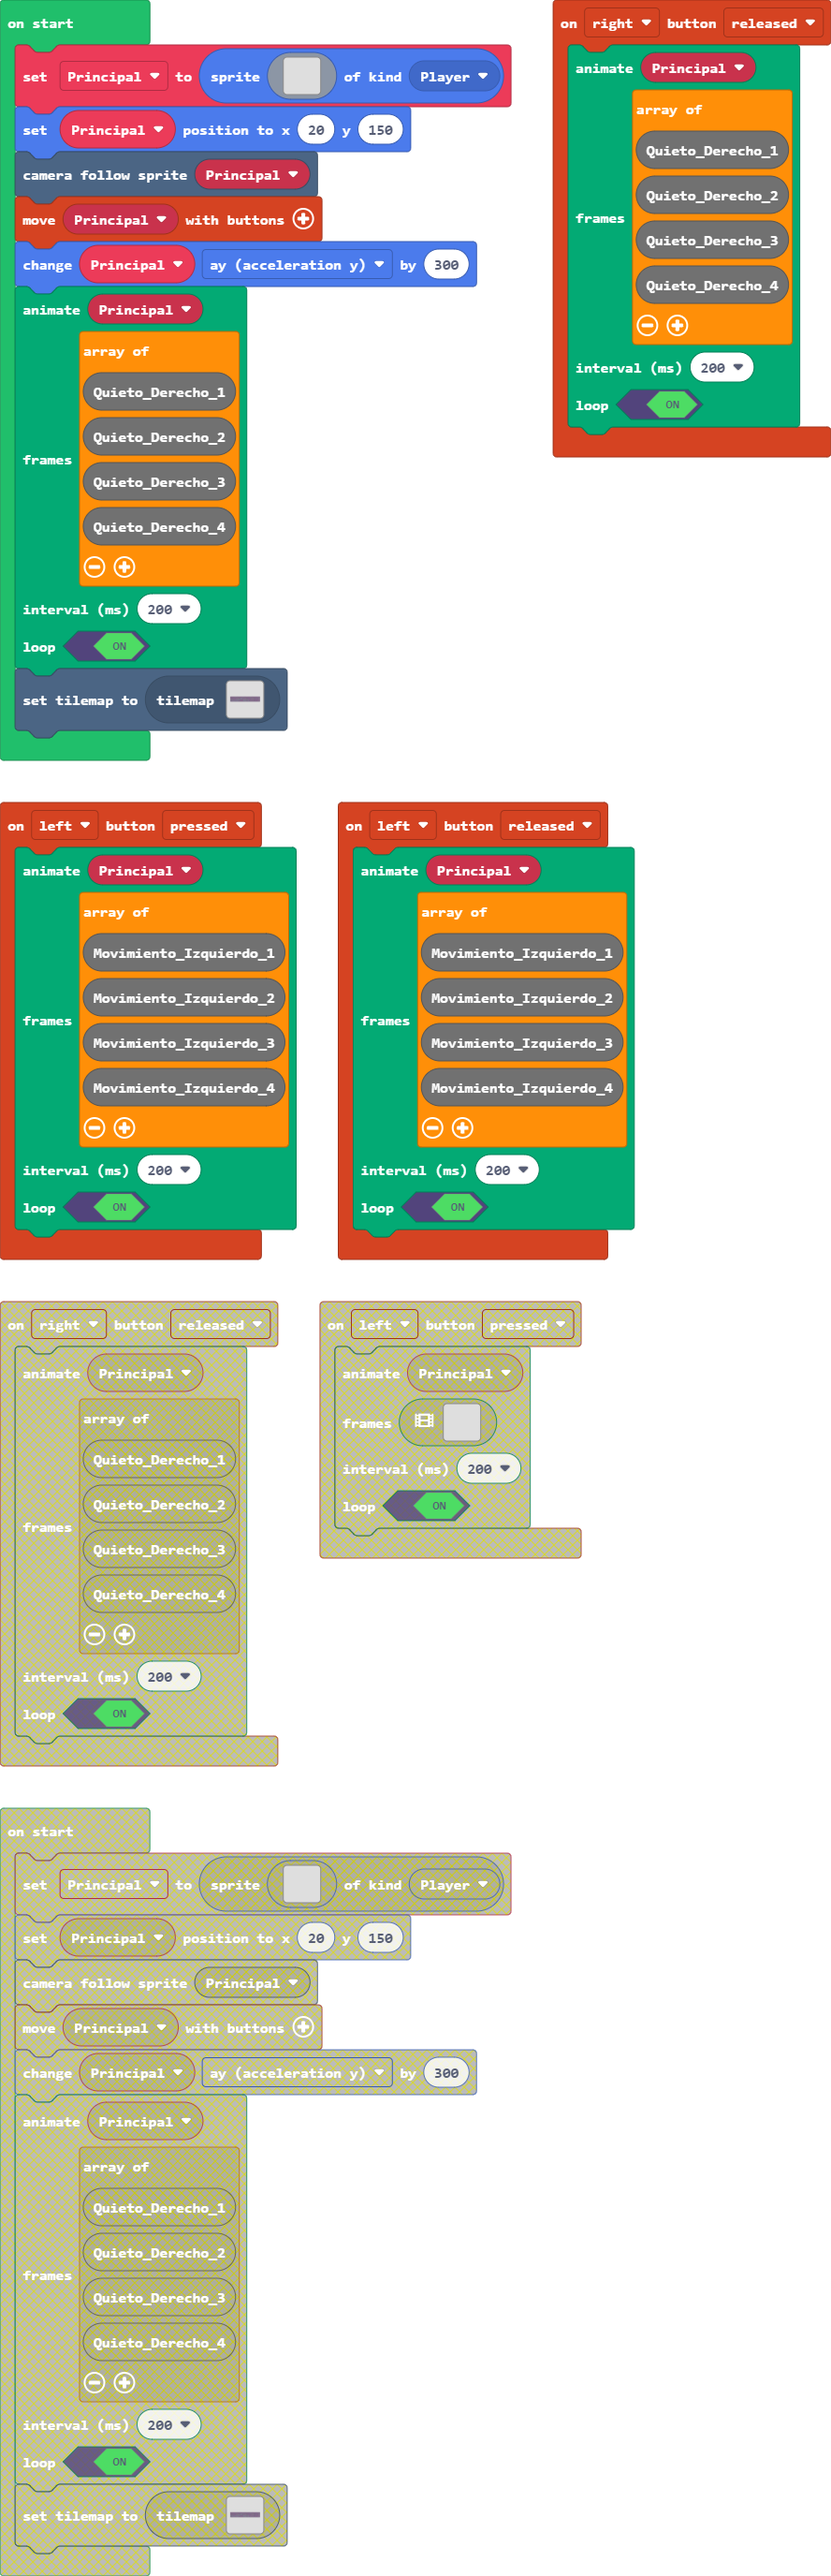
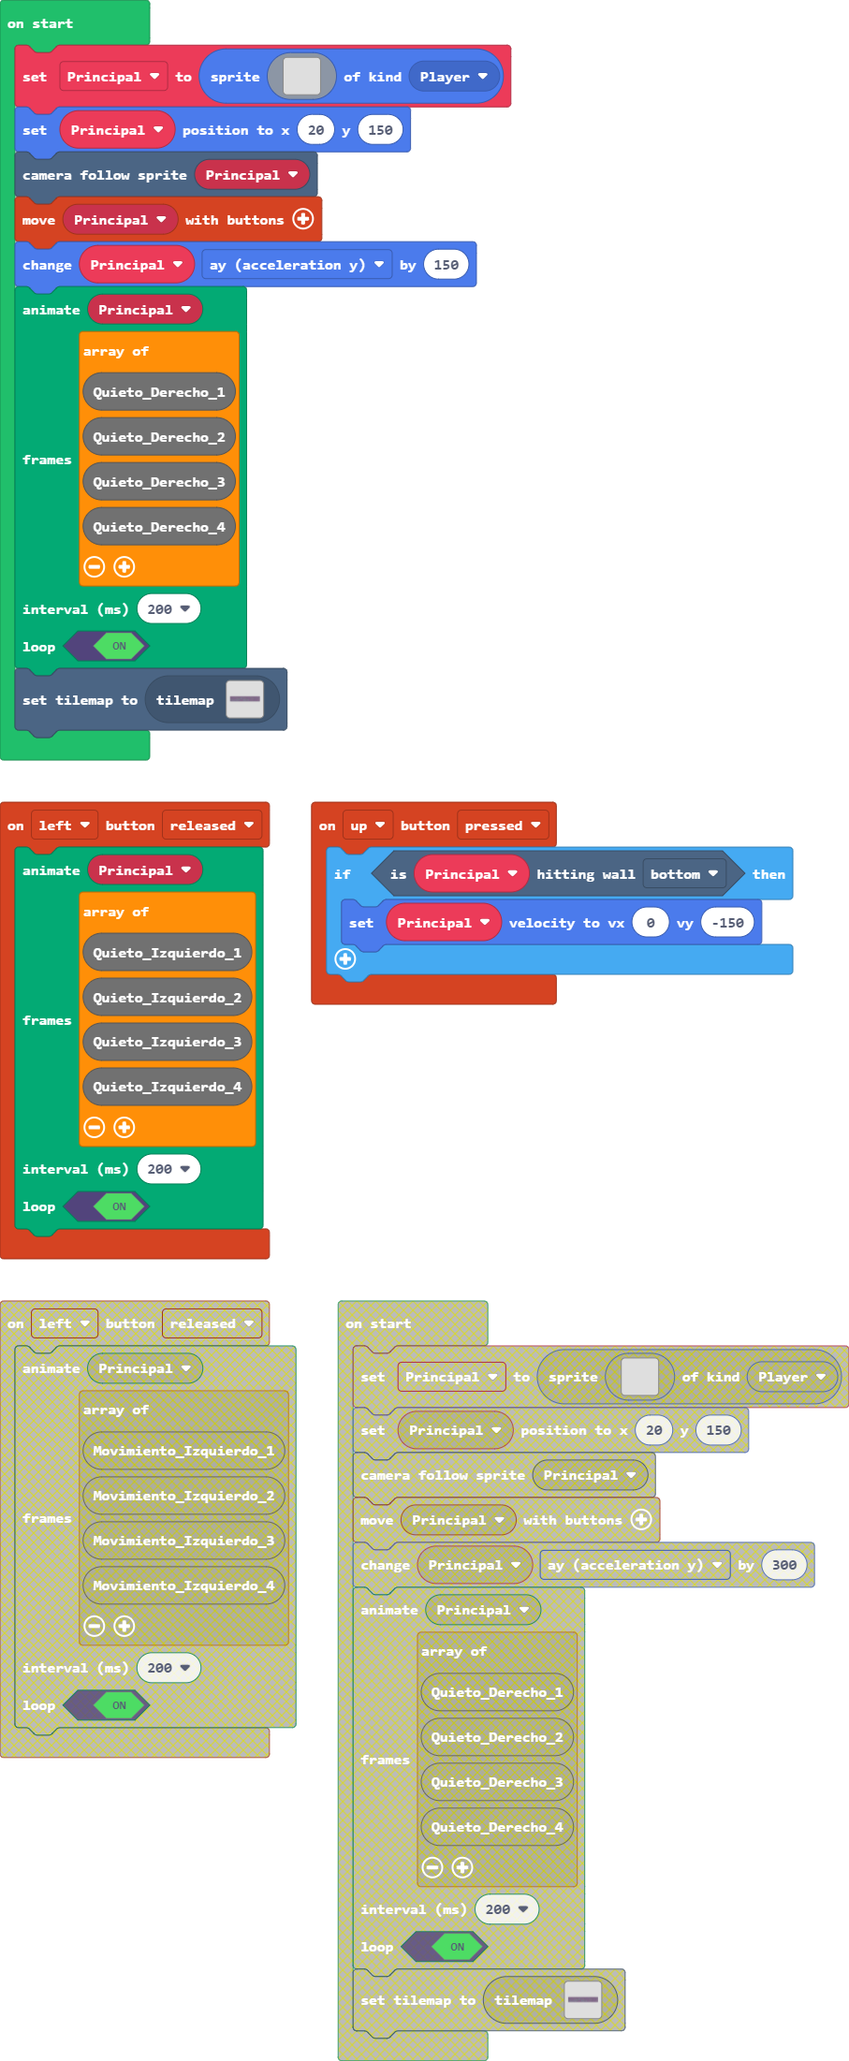
Update pxt.json, main.blocks, main.ts, tilemap.g.jres, tilemap.g.ts, Salto_Izquierdo_1.ts, Salto_Izquierdo_2.ts, Salto_Izquierdo_3.ts, Salto_Izquierdo_4.ts, Salto_Izquierdo_5.ts

diff --git a/tilemap.g.ts b/tilemap.g.ts
@@ -43,6 +43,25 @@ namespace myTiles {
 . . . . . . . . . . . . . . . . 
 . . . . . . . . . . . . . . . . 
 `, [myTiles.transparency16], TileScale.Sixteen);
+            case "level3":
+            case "level3":return tiles.createTilemap(hex`1000100000000000000000000000000000000000000000000000000000000000000000000000000000000000000000000000000000000000000000000000000000000000000000000000000000000000000000000000000000000000000000000000000000000000000000000000000000000000000000000000000000000000000000000000000000000000000000000000000000000000000000000000000000000000000000000000000000000000000000000000000000000000000000000000000000000000000000000000000000000000000000000000000000000000000000000000000000000000000000000000000000000000000000000000000000000000`, img`
+. . . . . . . . . . . . . . . . 
+. . . . . . . . . . . . . . . . 
+. . . . . . . . . . . . . . . . 
+. . . . . . . . . . . . . . . . 
+. . . . . . . . . . . . . . . . 
+. . . . . . . . . . . . . . . . 
+. . . . . . . . . . . . . . . . 
+. . . . . . . . . . . . . . . . 
+. . . . . . . . . . . . . . . . 
+. . . . . . . . . . . . . . . . 
+. . . . . . . . . . . . . . . . 
+. . . . . . . . . . . . . . . . 
+. . . . . . . . . . . . . . . . 
+. . . . . . . . . . . . . . . . 
+. . . . . . . . . . . . . . . . 
+. . . . . . . . . . . . . . . . 
+`, [myTiles.transparency16], TileScale.Sixteen);
         }
         return null;
     })

diff --git a/Salto_Izquierdo_1.ts b/Salto_Izquierdo_1.ts
@@ -1,0 +1,24 @@
+// Add your code here
+const Salto_Izquierdo_1 = img`
+    0 0 0 0 0 0 0 0 0 0 0 0 0 0 0 0 0 0
+    0 0 0 0 0 f f f f f f f f 0 0 0 0 0
+    0 0 0 0 f f f f f f f f f f 0 0 0 0
+    0 0 0 f f f f f f f f f f f f 0 0 0
+    0 0 f f f f f f f f f f f f f f 0 0
+    0 f f f f f d d d d f f f f f f 0 0
+    0 0 f f d d d d d d d d f f f f 0 0
+    0 0 0 f d d d d d d d d d f f f 0 0
+    0 0 0 f d f d d d f d d d f f f 0 0
+    0 0 0 f d f d d d f d d d d f 0 0 0
+    0 0 0 f d d d d d d d d d d f 0 0 0
+    0 0 0 0 f d d d d d d d d f 0 0 0 0
+    0 0 0 0 0 f f b d d b f f 0 0 0 0 0
+    0 0 0 0 f f b b e e b b f f 0 0 0 0
+    0 0 0 f b f b b e e b b b b f 0 0 0
+    0 0 0 f d f b b e e b f d d f 0 0 0
+    0 0 0 0 f f c c c c c c f f 0 0 0 0
+    0 0 0 0 0 f c f f f f c f 0 0 0 0 0
+    0 0 0 0 0 f c f 0 0 f c f 0 0 0 0 0
+    0 0 0 0 0 f c f 0 0 f c f 0 0 0 0 0
+    0 0 0 0 0 f f f 0 0 f f f 0 0 0 0 0
+    `;

diff --git a/Salto_Izquierdo_2.ts b/Salto_Izquierdo_2.ts
@@ -1,0 +1,24 @@
+// Add your code here
+const Salto_Izquierdo_2 = img`
+    0 0 0 0 0 0 0 0 0 0 0 0 0 0 0 0 0 0
+    0 0 0 0 0 0 0 0 0 0 0 0 0 0 0 0 0 0
+    0 0 0 0 0 f f f f f f f f 0 0 0 0 0
+    0 0 0 0 f f f f f f f f f f 0 0 0 0
+    0 0 0 f f f f f f f f f f f f 0 0 0
+    0 0 f f f f f f f f f f f f f f 0 0
+    0 f f f f f d d d d f f f f f f 0 0
+    0 0 f f d d d d d d d d f f f f 0 0
+    0 0 0 f d d d d d d d d d f f f 0 0
+    0 0 0 f d f d d d f d d d f f f 0 0
+    0 0 0 f d f d d d f d d d d f 0 0 0
+    0 0 0 f d d d d d d d d d d f 0 0 0
+    0 0 0 0 f d d d d d d d d f 0 0 0 0
+    0 0 0 0 f f f b d d b f f f 0 0 0 0
+    0 0 0 f b f b b e e b b b b f 0 0 0
+    0 0 0 f d f b b e e b f d d f 0 0 0
+    0 0 0 0 f f c c c c c c f f 0 0 0 0
+    0 0 0 0 0 f c f f f f c f 0 0 0 0 0
+    0 0 0 0 0 f c f 0 0 f c f 0 0 0 0 0
+    0 0 0 0 0 f c f 0 0 f c f 0 0 0 0 0
+    0 0 0 0 0 f f f 0 0 f f f 0 0 0 0 0
+    `;

diff --git a/Salto_Izquierdo_3.ts b/Salto_Izquierdo_3.ts
@@ -1,0 +1,24 @@
+// Add your code here
+const Salto_Izquierdo_3 = img`
+    0 0 0 0 0 f f f f f f f f 0 0 0 0 0
+    0 0 0 0 f f f f f f f f f f 0 0 0 0
+    0 0 0 f f f f f f f f f f f f 0 0 0
+    0 0 f f f f f f f f f f f f f f 0 0
+    0 f f f f f d d d d f f f f f f 0 0
+    0 0 f f d d d d d d d d f f f f 0 0
+    0 0 0 f d f d d d f d d d f f f 0 0
+    0 0 0 f d f d d d f d d d f f f 0 0
+    0 0 0 f d d d d d d d d d d f 0 0 0
+    0 0 0 f d d d d d d d d d d f 0 0 0
+    0 0 0 0 f d d d d d d d d f 0 0 0 0
+    0 0 0 0 0 f f b d d b f f 0 0 0 0 0
+    0 0 0 0 0 f b b e e b b f 0 0 0 0 0
+    0 0 0 0 f f b b e e b b f f 0 0 0 0
+    0 0 0 f b f b b e e b b b b f 0 0 0
+    0 0 0 f d f b b e e b f d d f 0 0 0
+    0 0 0 0 f f c f f f f c f f 0 0 0 0
+    0 0 0 0 0 f f f 0 0 f c f 0 0 0 0 0
+    0 0 0 0 0 0 0 0 0 0 f c f 0 0 0 0 0
+    0 0 0 0 0 0 0 0 0 0 f f f 0 0 0 0 0
+    0 0 0 0 0 0 0 0 0 0 0 0 0 0 0 0 0 0
+    `;

diff --git a/Salto_Izquierdo_4.ts b/Salto_Izquierdo_4.ts
@@ -1,0 +1,24 @@
+// Add your code here
+const Salto_Izquierdo_4 = img`
+    0 0 0 0 0 0 0 0 0 0 0 0 0 0 0 0 0 0
+    0 0 0 0 0 f f f f f f f f 0 0 0 0 0
+    0 0 0 0 f f f f f f f f f f 0 0 0 0
+    0 0 0 f f f f f f f f f f f f 0 0 0
+    0 0 f f f f f f f f f f f f f f 0 0
+    0 f f f f f d d d d f f f f f f 0 0
+    0 0 f f d d d d d d d d f f f f 0 0
+    0 0 0 f d d d d d d d d d f f f 0 0
+    0 0 0 f d d d d d d d d d f f f 0 0
+    0 0 f f d f d d d f d d d d f f f 0
+    0 f d f d f d d d f d d d d f d d f
+    0 f d b f d d d d d d d d f b d d f
+    0 0 f b b f f b d d b f f b b f f 0
+    0 0 0 f f f b b e e b b f f f 0 0 0
+    0 0 0 0 0 f b b e e b b f 0 0 0 0 0
+    0 0 0 0 0 f b b e e b b f 0 0 0 0 0
+    0 0 0 0 0 f c c c c c c f 0 0 0 0 0
+    0 0 0 0 0 f c f f f f c f 0 0 0 0 0
+    0 0 0 0 0 f c f 0 0 f f f 0 0 0 0 0
+    0 0 0 0 0 f c f 0 0 0 0 0 0 0 0 0 0
+    0 0 0 0 0 f f f 0 0 0 0 0 0 0 0 0 0
+    `;

diff --git a/Salto_Izquierdo_5.ts b/Salto_Izquierdo_5.ts
@@ -1,0 +1,24 @@
+// Add your code here
+const Salto_Izquierdo_5 = img`
+    0 0 0 0 0 0 0 0 0 0 0 0 0 0 0 0 0 0
+    0 0 0 0 0 0 0 0 0 0 0 0 0 0 0 0 0 0
+    0 0 0 0 0 f f f f f f f f 0 0 0 0 0
+    0 0 0 0 f f f f f f f f f f 0 0 0 0
+    0 0 0 f f f f f f f f f f f f 0 0 0
+    0 0 f f f f f f f f f f f f f f 0 0
+    0 f f f f f d d d d f f f f f f 0 0
+    0 0 f f d d d d d d d d f f f f 0 0
+    0 0 0 f d d d d d d d d d f f f 0 0
+    0 0 0 f d f d d d f d d d f f f 0 0
+    0 0 0 f d f d d d f d d d d f 0 0 0
+    0 0 0 f d d d d d d d d d d f 0 0 0
+    0 0 0 0 f d d d d d d d d f 0 0 0 0
+    0 0 0 f f f f b d d b f f f f 0 0 0
+    0 0 f b b f b b e e b b f b b f 0 0
+    0 0 f d d f b b e e b b f d d f 0 0
+    0 0 0 f f f c c c c c c f f f 0 0 0
+    0 0 0 0 0 f c f f f f c f 0 0 0 0 0
+    0 0 0 0 0 f c f 0 0 f c f 0 0 0 0 0
+    0 0 0 0 0 f c f 0 0 f c f 0 0 0 0 0
+    0 0 0 0 0 f f f 0 0 f f f 0 0 0 0 0
+    `;

diff --git a/main.ts b/main.ts
@@ -1,3 +1,8 @@
+controller.up.onEvent(ControllerButtonEvent.Pressed, function () {
+    if (Principal.isHittingTile(CollisionDirection.Bottom)) {
+        Principal.setVelocity(0, -150)
+    }
+})
 controller.left.onEvent(ControllerButtonEvent.Pressed, function () {
     animation.runImageAnimation(
     Principal,
@@ -31,7 +36,7 @@ controller.left.onEvent(ControllerButtonEvent.Released, function () {
     Quieto_Izquierdo_1,
     Quieto_Izquierdo_2,
     Quieto_Izquierdo_3,
-    Quieto_Izquierdo_4,
+    Quieto_Izquierdo_4
     ],
     200,
     true
@@ -72,7 +77,7 @@ Principal = sprites.create(img`
 Principal.setPosition(20, 150)
 scene.cameraFollowSprite(Principal)
 controller.moveSprite(Principal)
-Principal.ay += 300
+Principal.ay += 150
 animation.runImageAnimation(
 Principal,
 [
